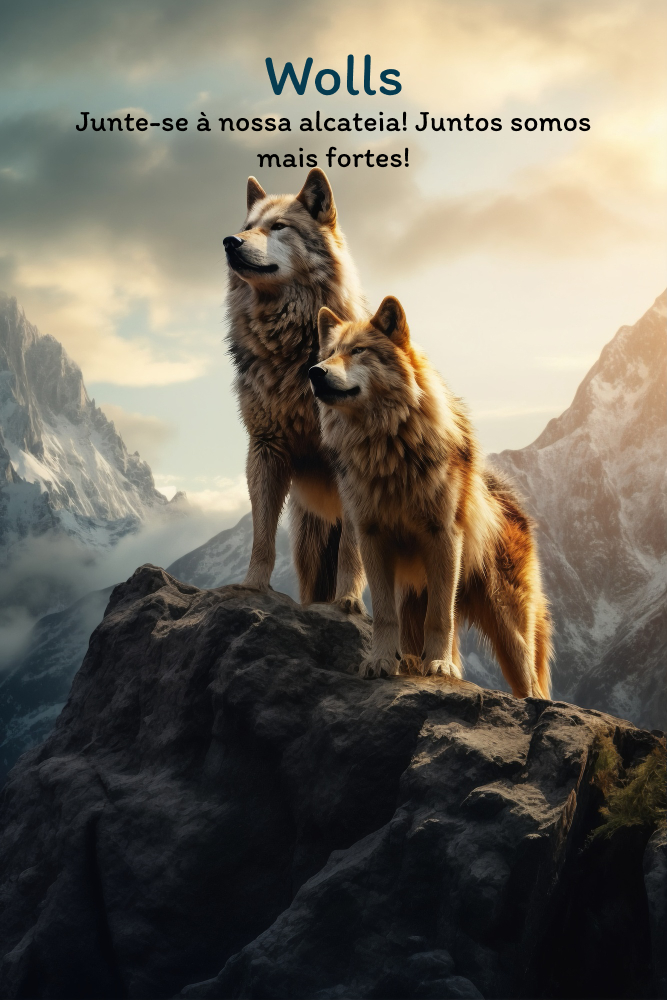
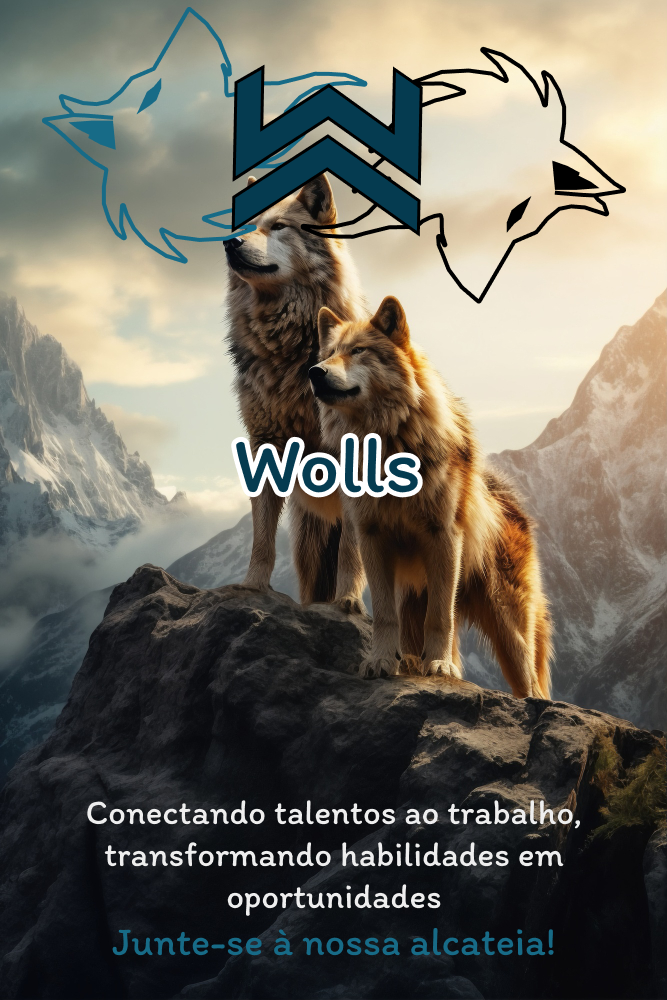
Personalizando frases de efeito

diff --git a/src/pages/Login/index.tsx b/src/pages/Login/index.tsx
@@ -57,6 +57,7 @@ export default function Login(props: Props) {
             <div className={styles.container}>
                 <img src={Logo} onClick={() => navigate('/')} alt='Logotipo da empresa' />
                 <p className={styles.container__title}>Wolls</p>
+                <p className={styles.container__text}>Conectando talentos ao trabalho, transformando habilidades em oportunidades</p>
                 <form className={styles.container__inputs}
                     onKeyDown={(e) => {
                         if (e.key === 'Enter') {

diff --git a/src/pages/Login/Login.module.scss b/src/pages/Login/Login.module.scss
@@ -20,7 +20,14 @@
     }
     &__title {
         color: $primary;
-        font-size: calc(20px + 1vmin);
+        font-weight: bold;
+        font-size: calc(20px + 2vmin);
+    }
+    &__text {
+        color: $secondary;
+        text-wrap: wrap;
+        text-align: center;
+        font-size: calc(10px + 1vmin);
     }
     p {
         margin: 0;
